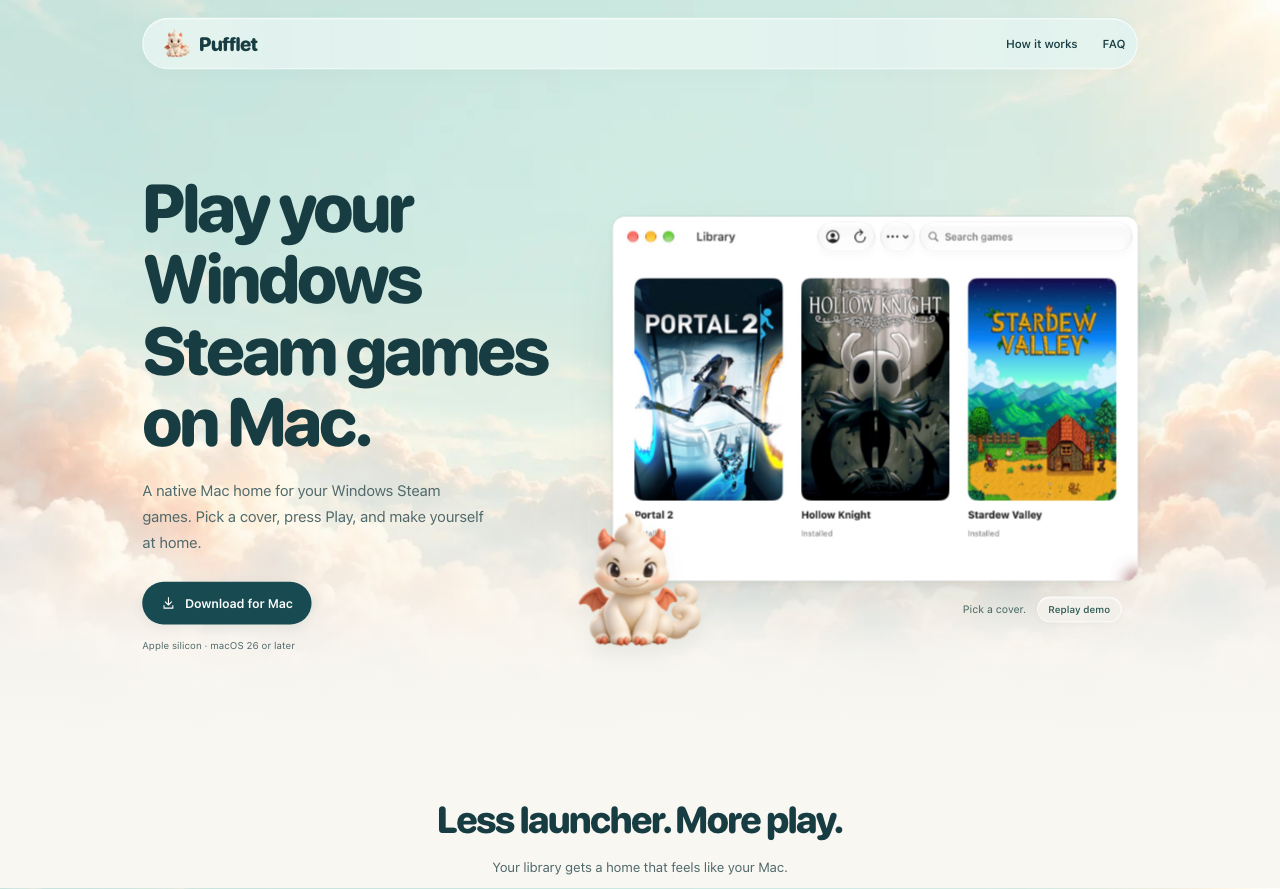
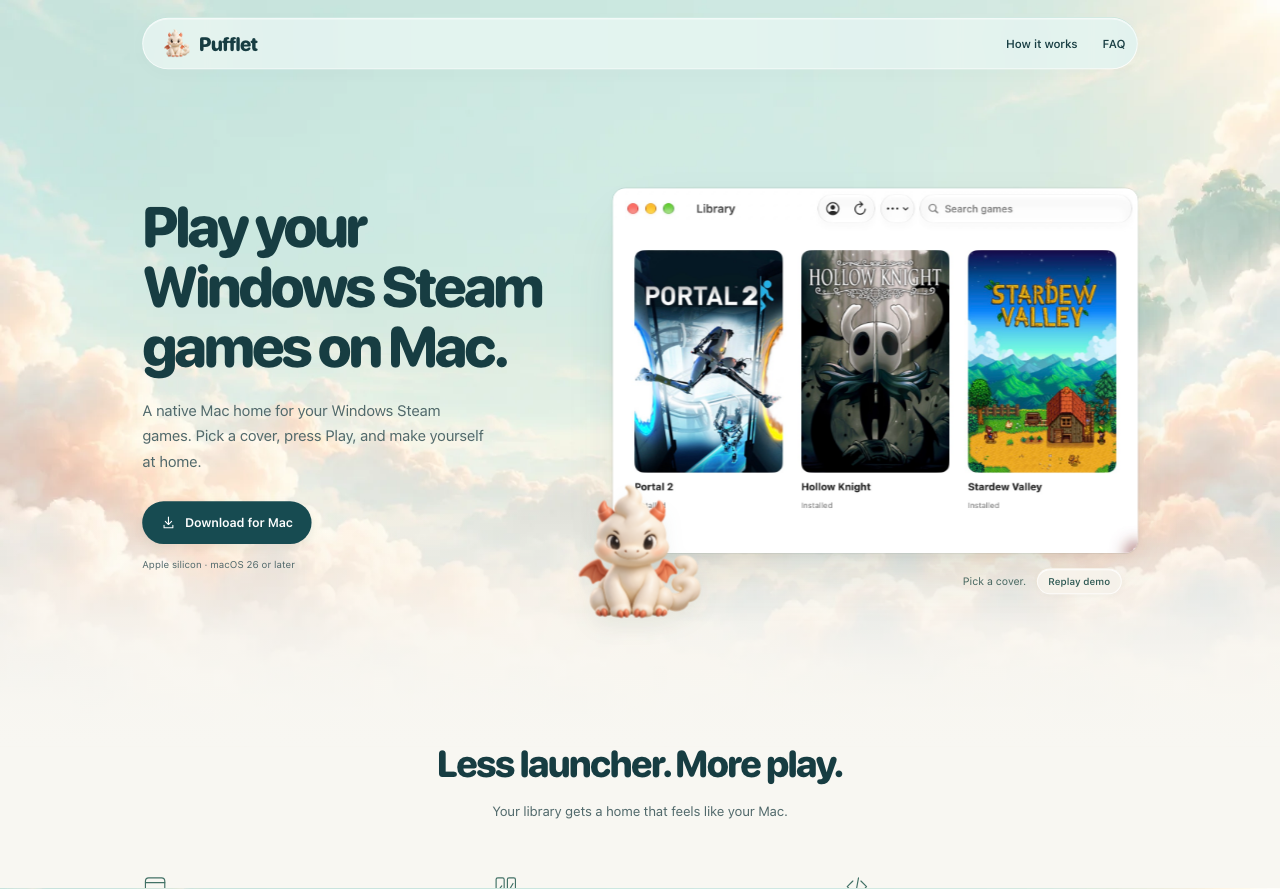
fix(site): reduce hero headline size

diff --git a/site/public/styles.css b/site/public/styles.css
@@ -1,19 +1,19 @@
 :root{color-scheme:light;--paper:#f8f7f2;--ink:#173d42;--muted:#51696b;--teal:#174b51;--line:#dce3db;--wash:#edf0e9;font-family:-apple-system,BlinkMacSystemFont,"Segoe UI",sans-serif;color:var(--ink);background:var(--paper);font-synthesis:none;-webkit-font-smoothing:antialiased}
 *{box-sizing:border-box}html{scroll-behavior:smooth;scroll-padding-top:110px}body{margin:0}button,a{-webkit-tap-highlight-color:transparent}button{font:inherit}a{color:inherit;text-decoration:none}button{cursor:pointer}p,h1,h2,h3{margin:0}svg{width:20px;height:20px;fill:none;stroke:currentColor;stroke-width:1.7;stroke-linecap:round;stroke-linejoin:round;flex-shrink:0}[hidden]{display:none!important}::selection{background:#d4e9df}:focus-visible{outline:3px solid #287b87;outline-offset:5px}.shell{width:min(1120px,calc(100% - 80px));margin-inline:auto}.skip-link{position:absolute;left:20px;top:15px;z-index:30;padding:12px 20px;background:var(--teal);color:white;border-radius:12px;transform:translateY(-160%)}.skip-link:focus{transform:none}
 .sky{position:absolute;inset:0 0 auto;height:840px;background:linear-gradient(0deg,var(--paper),transparent 32%),url('/images/cloud-garden.webp') center bottom/cover;z-index:-1;pointer-events:none}.site-header{position:sticky;top:18px;z-index:10;margin-top:20px;padding:10px 13px 10px 18px;display:flex;justify-content:space-between;align-items:center;border:1px solid #ffffffb8;border-radius:100px;background:#ffffff80;backdrop-filter:blur(18px) saturate(1.2);box-shadow:inset 0 1px 0 #fff9,0 4px 20px #365e4506}.wordmark{display:flex;align-items:center;gap:9px;font-family:ui-rounded,"SF Pro Rounded",-apple-system,sans-serif;font-size:22px;font-weight:750;letter-spacing:-.8px}.wordmark img{object-fit:contain}.site-header nav{display:flex;align-items:center;gap:28px;font-size:13px;font-weight:550}.nav-action{display:flex;gap:10px;align-items:center;background:#fff9;padding:11px 17px;border-radius:100px;box-shadow:0 1px 3px #173d4210}.nav-action svg{width:15px;height:15px}.nav-text:hover,.text-link:hover,.site-footer>a:last-of-type:hover{text-decoration:underline;text-underline-offset:5px}
-.hero{display:grid;grid-template-columns:.9fr 1.1fr;align-items:center;gap:46px;padding-top:116px;padding-bottom:130px}.hero-copy{padding-bottom:28px}h1,h2,h3{font-family:ui-rounded,"SF Pro Rounded",-apple-system,BlinkMacSystemFont,sans-serif}h1{text-wrap:balance;font-size:clamp(52px,5.6vw,76px);letter-spacing:-3.3px;font-weight:780;line-height:1.055}h2{font-size:clamp(30px,3.2vw,42px);letter-spacing:-1.6px;line-height:1.15;font-weight:730}.hero-description{max-width:390px;font-size:17px;line-height:1.7;color:var(--muted);margin-top:23px}.hero-actions{display:flex;align-items:center;gap:21px;flex-wrap:wrap;margin-top:30px}.button{display:inline-flex;align-items:center;justify-content:center;gap:10px;min-height:48px;padding:14px 21px;border-radius:100px;font-size:14px;font-weight:600}.primary{background:var(--teal);color:white;box-shadow:0 4px 12px #174b5114}.primary:hover{background:#0e3940}.button svg{width:17px;height:17px}.release-detail{font-size:11px;color:var(--muted);line-height:1.6;margin-top:15px}
+.hero{display:grid;grid-template-columns:.9fr 1.1fr;align-items:center;gap:46px;padding-top:116px;padding-bottom:130px}.hero-copy{padding-bottom:28px}h1,h2,h3{font-family:ui-rounded,"SF Pro Rounded",-apple-system,BlinkMacSystemFont,sans-serif}h1{text-wrap:balance;font-size:clamp(48px,4.8vw,64px);letter-spacing:-3.3px;font-weight:780;line-height:1.055}h2{font-size:clamp(30px,3.2vw,42px);letter-spacing:-1.6px;line-height:1.15;font-weight:730}.hero-description{max-width:390px;font-size:17px;line-height:1.7;color:var(--muted);margin-top:23px}.hero-actions{display:flex;align-items:center;gap:21px;flex-wrap:wrap;margin-top:30px}.button{display:inline-flex;align-items:center;justify-content:center;gap:10px;min-height:48px;padding:14px 21px;border-radius:100px;font-size:14px;font-weight:600}.primary{background:var(--teal);color:white;box-shadow:0 4px 12px #174b5114}.primary:hover{background:#0e3940}.button svg{width:17px;height:17px}.release-detail{font-size:11px;color:var(--muted);line-height:1.6;margin-top:15px}
 .demo-scene{position:relative;min-width:0;margin:0;padding:18px 0 70px;scroll-margin-top:120px}.hero-mascot{position:absolute;bottom:16px;left:-66px;width:174px;height:auto;filter:drop-shadow(0 13px 11px #315b4d14);pointer-events:none}
 .how{padding:5px 0 91px}.section-intro{text-align:center}.section-intro>p{color:var(--muted);font-size:15px;line-height:1.7;margin-top:16px}.features{display:grid;grid-template-columns:repeat(3,1fr);gap:64px;margin-top:58px}.feature-icon{width:29px;height:29px;color:#427166;margin-bottom:19px;stroke-width:1.45}.features h3{font-size:18px;font-weight:650;letter-spacing:-.45px;margin-bottom:12px}.features p{font-size:14px;line-height:1.85;color:var(--muted)}
 .library-section{background:var(--wash);border-block:1px solid #dce3db66}.library-layout{display:grid;grid-template-columns:1fr 1fr;gap:100px;align-items:center;padding-block:76px}.library-copy h2{font-size:36px;line-height:1.2;letter-spacing:-1.3px}.library-copy p{font-size:14px;line-height:1.85;color:var(--muted);margin-top:21px;max-width:395px}.text-link{display:inline-flex;gap:9px;font-size:13px;font-weight:600;margin-top:25px}.folder-scene{position:relative;width:300px;height:260px;justify-self:center}.folder-back{position:absolute;inset:41px 10px 16px;background:#97b7a8;border-radius:13px;transform:rotate(-6deg)}.folder-back:before{content:'';position:absolute;left:0;top:-17px;width:43%;height:30px;background:#97b7a8;border-radius:12px 12px 0 0}.folder-front{position:absolute;inset:100px 0 0;display:flex;flex-direction:column;align-items:center;justify-content:center;gap:9px;background:linear-gradient(160deg,#cfdfd0,#aac8b5);border:1px solid #e5eee1;border-radius:13px 13px 19px 19px;box-shadow:0 20px 30px -20px #315c5c70,inset 0 1px 0 #fff8;transform:rotate(3deg);color:#426d5c}.folder-front svg{width:34px;height:34px;opacity:.65;stroke-width:1.5}.folder-front span{font-size:12px;font-weight:550;letter-spacing:.1px}.folder-cover{position:absolute;top:4px;width:100px;height:150px;overflow:hidden;border-radius:5px;box-shadow:0 2px 6px #173d4233}.folder-cover img{width:100%;height:100%;object-fit:cover}.cover-one{left:62px;transform:rotate(-16deg)}.cover-two{left:154px;transform:rotate(10deg)}
 .faq{display:grid;grid-template-columns:.8fr 1.2fr;gap:110px;padding-block:100px}.faq>div>p{color:var(--muted);font-size:14px;margin-top:19px}.questions details{border-bottom:1px solid var(--line)}.questions details:first-child{border-top:1px solid var(--line)}summary{cursor:pointer;list-style:none;display:flex;align-items:center;justify-content:space-between;gap:18px;padding:22px 0;font-size:14px;font-weight:550;line-height:1.5}summary::-webkit-details-marker{display:none}summary::after{content:'+';font-size:22px;font-weight:350;color:#678577;flex-shrink:0}details[open] summary::after{content:'−'}.questions p{font-size:13px;color:var(--muted);line-height:1.85;padding:0 26px 22px 0}
 .closing{position:relative;text-align:center;padding:26px 0 78px}.closing>img{width:102px;height:102px;object-fit:contain;display:block;margin:0 auto 20px}.closing>p:first-of-type{font-size:13px;color:var(--muted);margin-bottom:14px}.closing h2{font-size:44px;letter-spacing:-1.7px}.closing .button{margin-top:26px}.closing .release-detail{font-size:11px}.site-footer{display:flex;align-items:center;justify-content:space-between;gap:16px;flex-wrap:wrap;border-top:1px solid var(--line);padding-block:27px 24px;font-size:11px;color:var(--muted)}.site-footer .wordmark{font-size:19px;color:var(--ink)}.site-footer p{flex:1;margin-left:20px}.legal{display:block;width:100%;font-size:10px;line-height:1.7;color:#64756e;padding-top:6px}
 @media(min-width:1450px){.hero{padding-top:136px;padding-bottom:150px}.sky{height:900px}}
-@media(max-width:1050px){.shell{width:calc(100% - 64px)}.hero{gap:32px;padding-top:92px;padding-bottom:105px}h1{font-size:56px;letter-spacing:-2.7px}.hero-actions{gap:15px}.button{font-size:13px;padding-inline:17px}.hero-mascot{width:140px;left:-42px;bottom:23px}.features{gap:36px}.library-layout{gap:50px}.faq{gap:64px}.library-copy h2{font-size:32px}}
-@media(max-width:760px){.shell{width:calc(100% - 40px)}.site-header{top:12px;margin-top:12px;padding:9px 11px 9px 13px}.site-header nav{gap:18px}.site-header .nav-text:first-child{display:none}.nav-action{font-size:11px;padding:10px 13px}.wordmark{font-size:20px;gap:5px}.wordmark img{width:29px;height:29px}.hero{grid-template-columns:1fr;gap:36px;padding-top:61px;padding-bottom:63px}.hero-copy{padding:0 4px;text-align:center}h1{font-size:clamp(50px,10.6vw,68px);letter-spacing:-2.7px;line-height:1.08}.hero-description{margin:22px auto 0;max-width:390px;font-size:15px;line-height:1.75}.hero-actions{justify-content:center;gap:20px;margin-top:25px}.button{font-size:13px}.hero .release-detail{margin-top:16px}.demo-scene{width:min(100%,520px);margin-inline:auto;padding-top:10px;padding-bottom:65px}.sky{height:1050px;background-position:center top;background-size:auto 100%}.hero-mascot{width:136px;left:-12px;bottom:14px}.how{padding-bottom:60px}.section-intro h2{font-size:31px}.section-intro>p{font-size:13px;margin-top:12px}.features{margin-top:35px;gap:27px;grid-template-columns:1fr}.features article{display:grid;grid-template-columns:37px 1fr;column-gap:12px}.feature-icon{grid-row:1/3;width:26px;height:26px;margin:0}.features h3{font-size:17px;margin:1px 0 7px}.features p{font-size:13px;line-height:1.8}.library-layout{grid-template-columns:1fr;gap:32px;padding-block:44px 48px}.folder-scene{transform:scale(.85);height:240px;margin-top:-14px;margin-bottom:-15px}.library-copy{padding-inline:4px}.library-copy h2{font-size:32px}.library-copy p{font-size:13px;max-width:100%;margin-top:17px}.text-link{margin-top:21px}.faq{grid-template-columns:1fr;gap:29px;padding-block:60px}.faq h2{font-size:33px}.faq h2 br{display:none}.faq>div>p{margin-top:13px;font-size:13px}summary{font-size:13px;padding-block:19px}.questions p{font-size:12px}.closing{padding-top:3px;padding-bottom:54px}.closing h2{font-size:36px}.closing>img{width:90px;height:90px;margin-bottom:16px}.closing>p:first-of-type{font-size:12px}.site-footer{font-size:10px;gap:12px;padding-block:23px}.site-footer p{order:3;width:100%;flex:auto;margin-left:0}.legal{order:4;font-size:9px}.site-footer>a:last-of-type{margin-left:auto}}
+@media(max-width:1050px){.shell{width:calc(100% - 64px)}.hero{gap:32px;padding-top:92px;padding-bottom:105px}h1{font-size:48px;letter-spacing:-2.7px}.hero-actions{gap:15px}.button{font-size:13px;padding-inline:17px}.hero-mascot{width:140px;left:-42px;bottom:23px}.features{gap:36px}.library-layout{gap:50px}.faq{gap:64px}.library-copy h2{font-size:32px}}
+@media(max-width:760px){.shell{width:calc(100% - 40px)}.site-header{top:12px;margin-top:12px;padding:9px 11px 9px 13px}.site-header nav{gap:18px}.site-header .nav-text:first-child{display:none}.nav-action{font-size:11px;padding:10px 13px}.wordmark{font-size:20px;gap:5px}.wordmark img{width:29px;height:29px}.hero{grid-template-columns:1fr;gap:36px;padding-top:61px;padding-bottom:63px}.hero-copy{padding:0 4px;text-align:center}h1{font-size:clamp(38px,10.6vw,56px);letter-spacing:-2.7px;line-height:1.08}.hero-description{margin:22px auto 0;max-width:390px;font-size:15px;line-height:1.75}.hero-actions{justify-content:center;gap:20px;margin-top:25px}.button{font-size:13px}.hero .release-detail{margin-top:16px}.demo-scene{width:min(100%,520px);margin-inline:auto;padding-top:10px;padding-bottom:65px}.sky{height:1050px;background-position:center top;background-size:auto 100%}.hero-mascot{width:136px;left:-12px;bottom:14px}.how{padding-bottom:60px}.section-intro h2{font-size:31px}.section-intro>p{font-size:13px;margin-top:12px}.features{margin-top:35px;gap:27px;grid-template-columns:1fr}.features article{display:grid;grid-template-columns:37px 1fr;column-gap:12px}.feature-icon{grid-row:1/3;width:26px;height:26px;margin:0}.features h3{font-size:17px;margin:1px 0 7px}.features p{font-size:13px;line-height:1.8}.library-layout{grid-template-columns:1fr;gap:32px;padding-block:44px 48px}.folder-scene{transform:scale(.85);height:240px;margin-top:-14px;margin-bottom:-15px}.library-copy{padding-inline:4px}.library-copy h2{font-size:32px}.library-copy p{font-size:13px;max-width:100%;margin-top:17px}.text-link{margin-top:21px}.faq{grid-template-columns:1fr;gap:29px;padding-block:60px}.faq h2{font-size:33px}.faq h2 br{display:none}.faq>div>p{margin-top:13px;font-size:13px}summary{font-size:13px;padding-block:19px}.questions p{font-size:12px}.closing{padding-top:3px;padding-bottom:54px}.closing h2{font-size:36px}.closing>img{width:90px;height:90px;margin-bottom:16px}.closing>p:first-of-type{font-size:12px}.site-footer{font-size:10px;gap:12px;padding-block:23px}.site-footer p{order:3;width:100%;flex:auto;margin-left:0}.legal{order:4;font-size:9px}.site-footer>a:last-of-type{margin-left:auto}}
 @media(prefers-reduced-motion:reduce){html{scroll-behavior:auto}}
 
 .legal{font-size:11px}
-@media(min-width:761px) and (max-width:1050px){h1{font-size:clamp(44px,5.6vw,60px);letter-spacing:-.05em}.hero-description{font-size:15px}}
+@media(min-width:761px) and (max-width:1050px){h1{font-size:clamp(40px,4.8vw,52px);letter-spacing:-.05em}.hero-description{font-size:15px}}
 @media(max-width:760px){.legal{font-size:10px}}
 
 /* The compact window and floating panel both retain the actual native pixels. */
